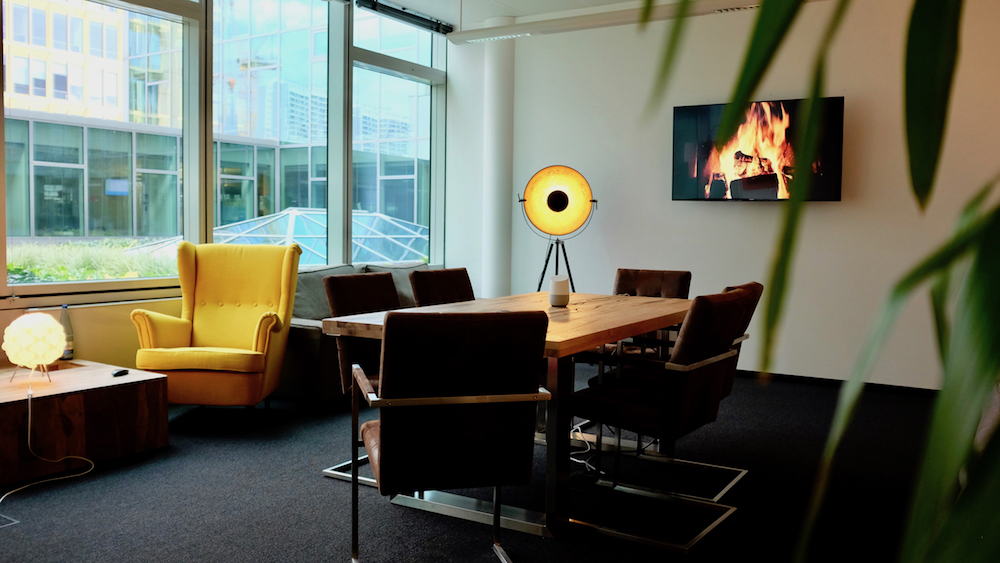
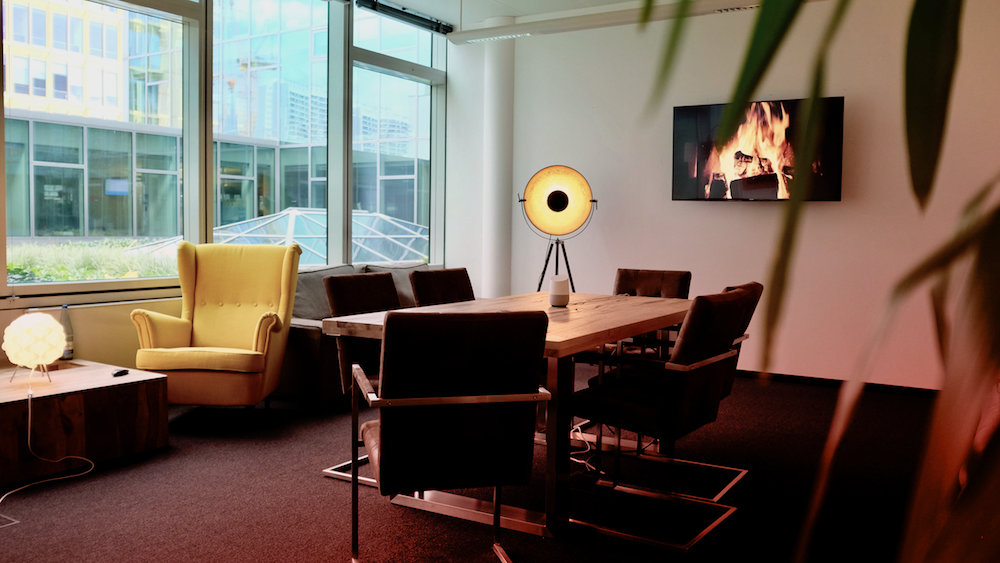
Burn filter into images

diff --git a/src/components/JobDetailsView/JobDetailsView.jsx b/src/components/JobDetailsView/JobDetailsView.jsx
@@ -27,7 +27,7 @@ class JobDetailsView extends React.Component {
     render() {
         let job = this.state.jobData;
 
-        let randomImage = '/recruiting/' + (Math.floor(Math.random() * 5) + 1) + '.jpg'
+        let randomImage = '/recruiting/' + (Math.floor(Math.random() * 6) + 1) + '.jpg'
 
         return (
             <section className='jobDetailsView centered'>

diff --git a/public/index.html b/public/index.html
@@ -1,5 +1,5 @@
 <!DOCTYPE html>
-<html lang="en">
+<html lang="en" prefix=“og: http://ogp.me/ns#>
 
 <head>
   <meta charset="utf-8">
@@ -53,7 +53,8 @@
     function gtag() { dataLayer.push(arguments); }
     gtag('js', new Date());
 
-    gtag('config', 'UA-124834155-1');
+    gtag('config', 'UA-124834155-1', { 'anonymize_ip': true });
+
   </script>
 
 

diff --git a/src/components/JobDetailsView/JobDetailsView.scss b/src/components/JobDetailsView/JobDetailsView.scss
@@ -82,7 +82,6 @@
                 width:100%;
                 top:0;
                 left:0;
-                background: linear-gradient(-190deg, rgba(255, 0, 0, 0) 0%, rgba(250, 128, 114, 0.8) 100%);
 
                 mix-blend-mode: color;
             }

diff --git a/src/components/JobDetailsView/Terminal/Terminal.scss b/src/components/JobDetailsView/Terminal/Terminal.scss
@@ -28,7 +28,7 @@
         flex-wrap: wrap;
 
         > p {
-            padding-right: 5px;
+            padding-right: 9px;
         }
 
         > input {
